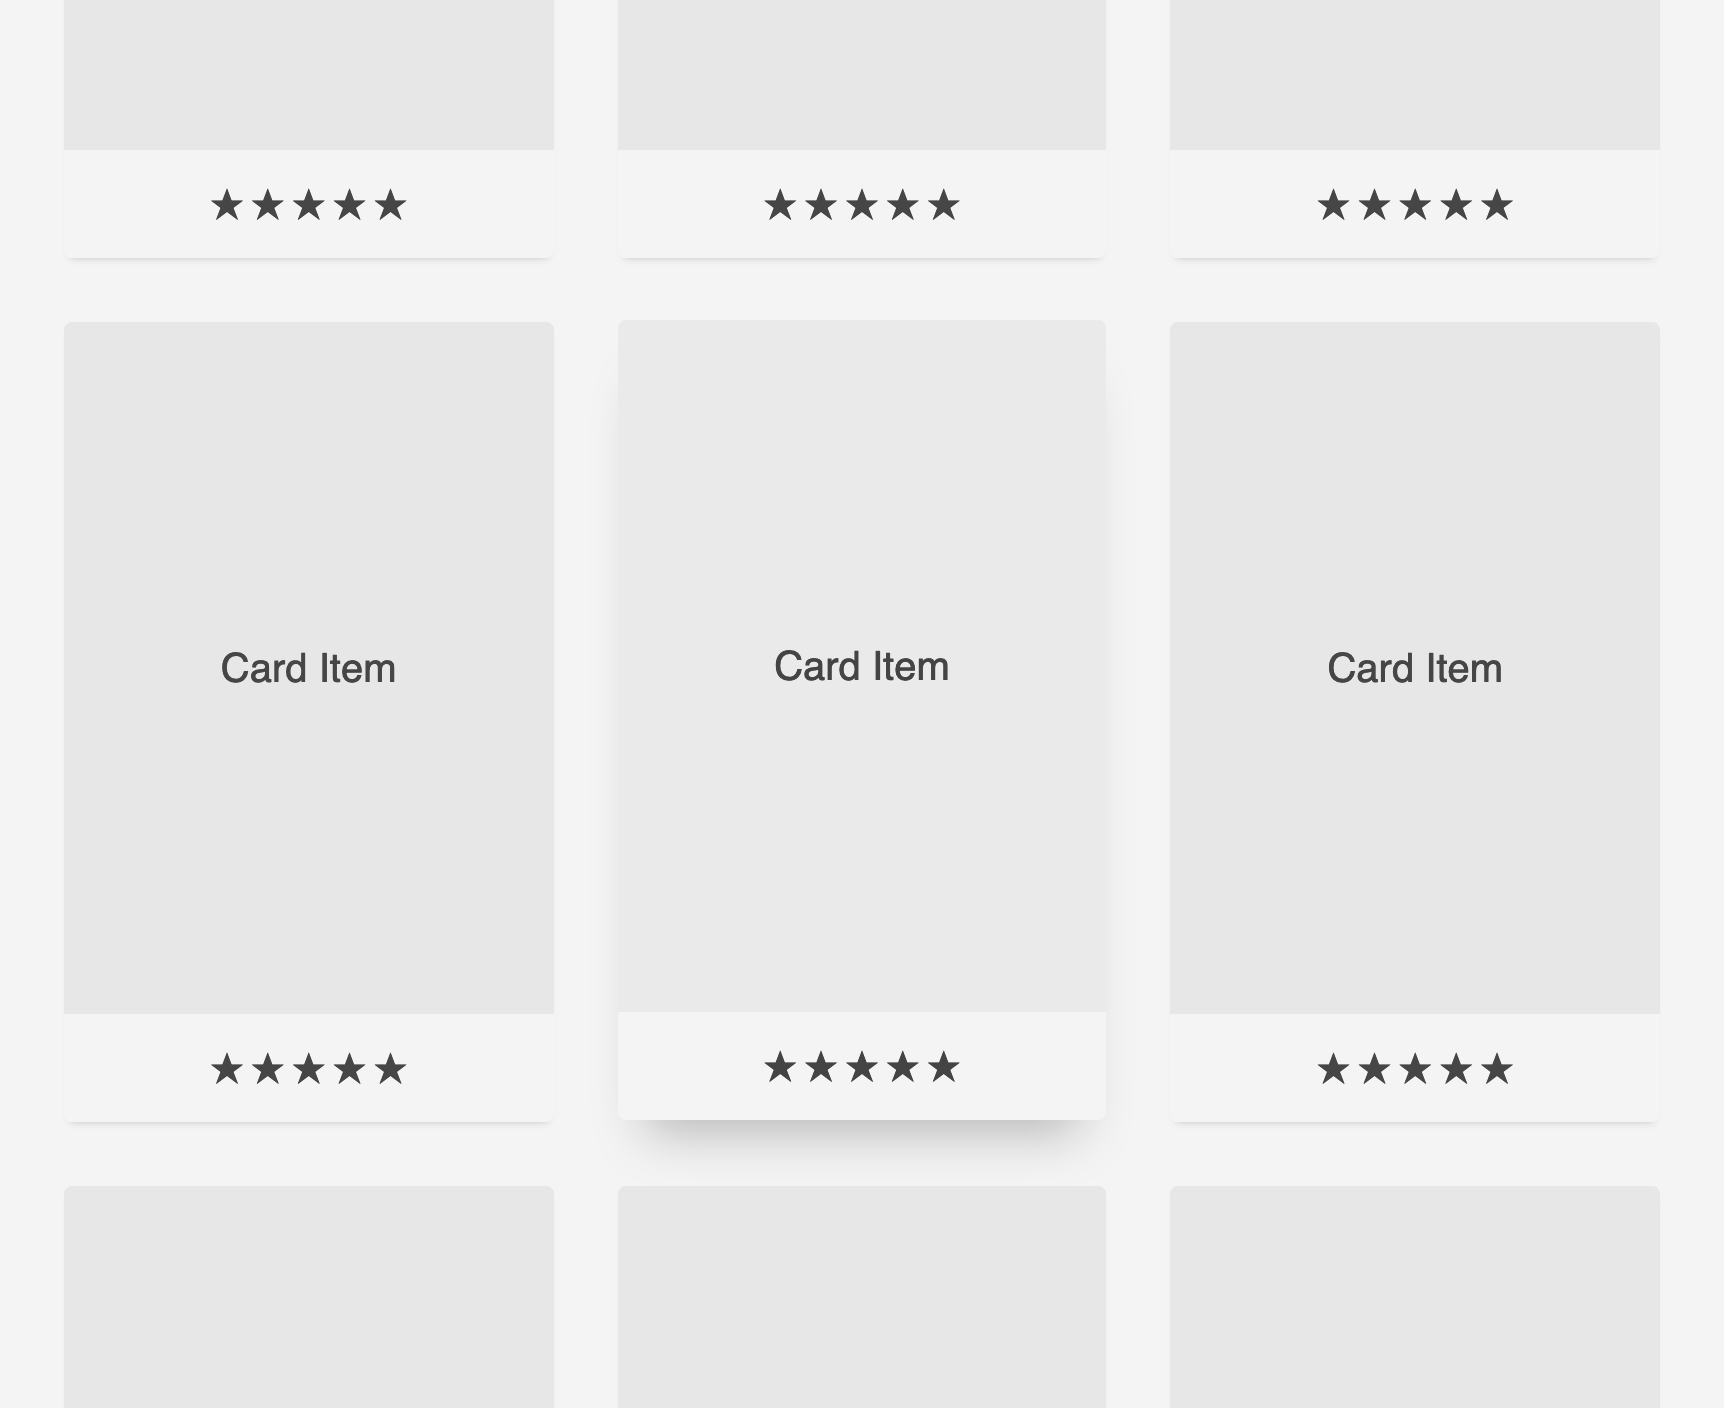
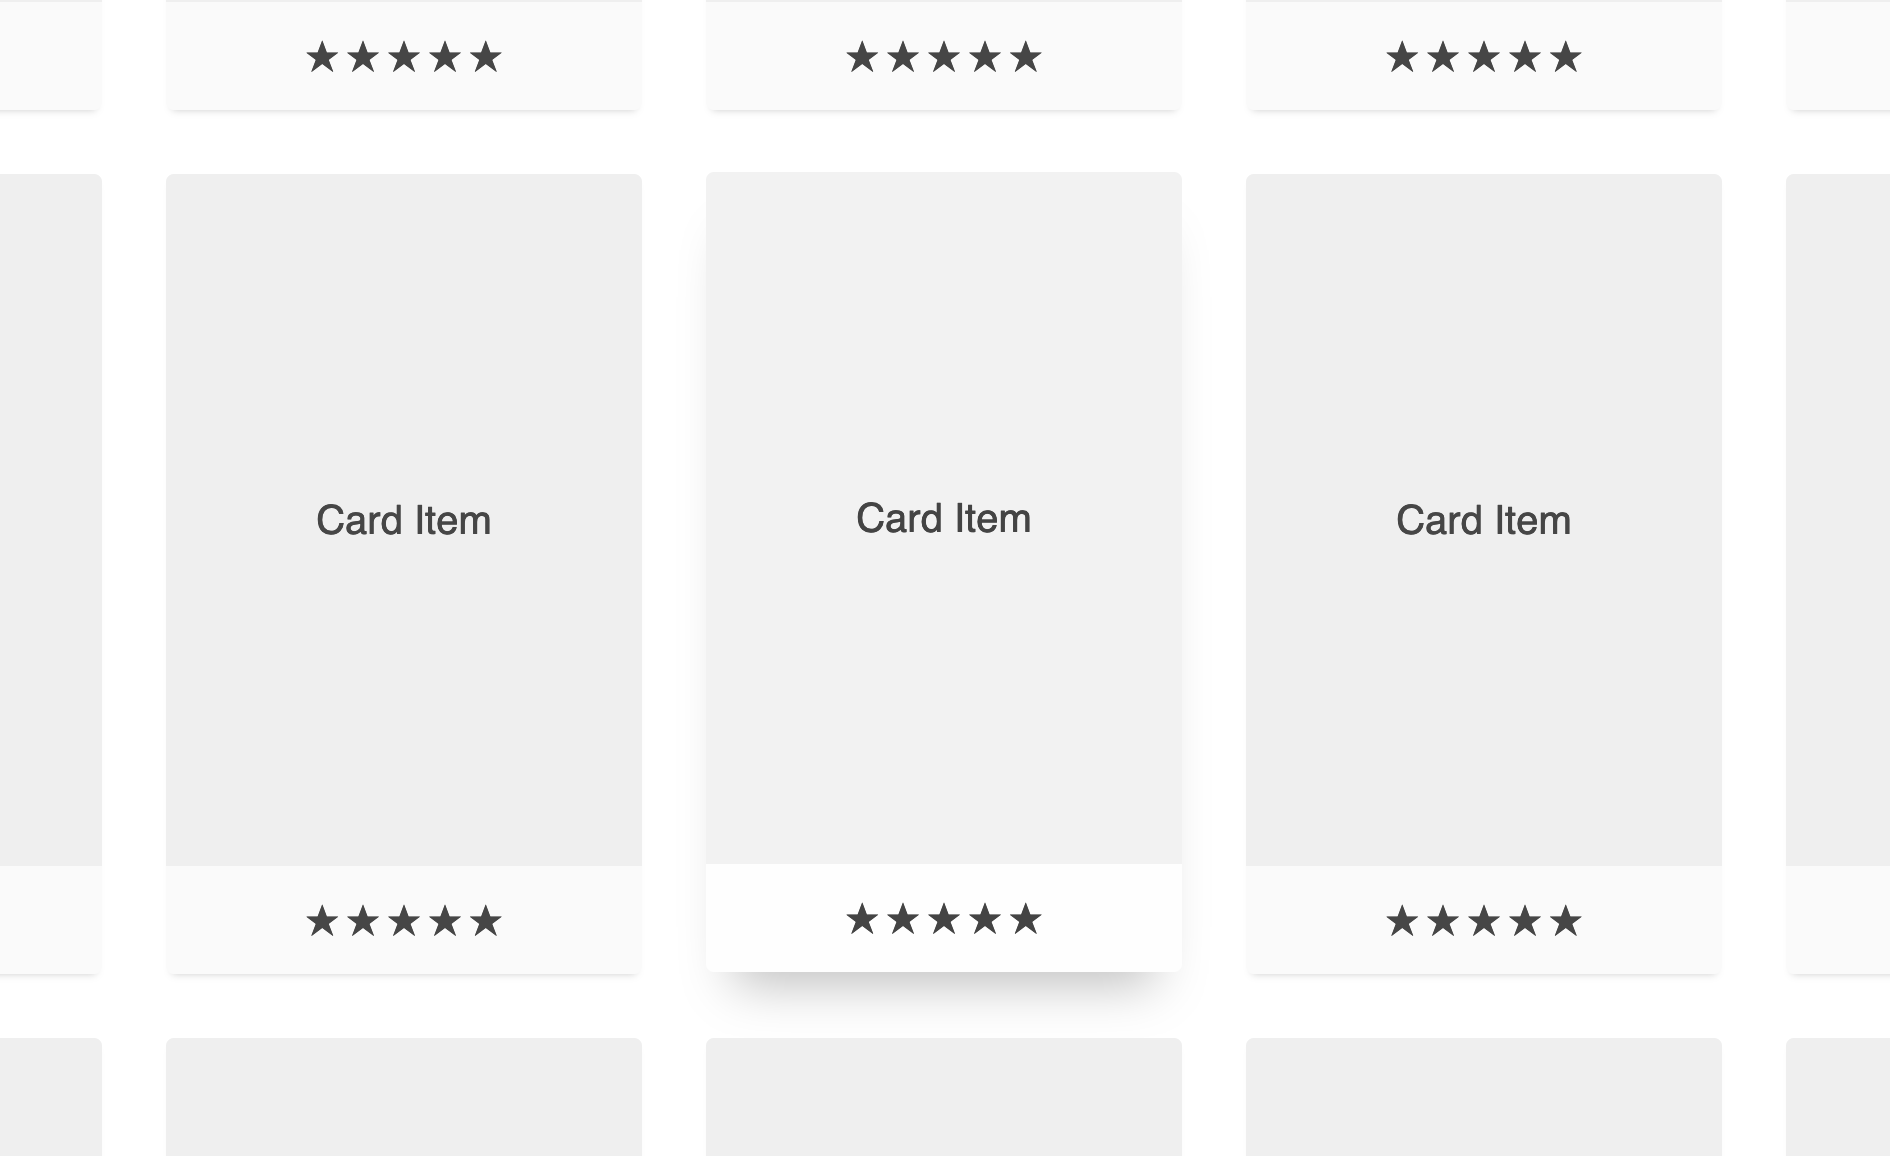
Tweak demo

diff --git a/demo/index.html b/demo/index.html
@@ -2,7 +2,6 @@
 <style>
   body {
     margin: 0;
-    background: #f4f4f4;
     color: #444;
     font-family: sans-serif;
   }
@@ -11,6 +10,7 @@
     flex-direction: column;
     min-height: 400px;
     text-align: center;
+    background: #fefefe;
   }
   card-item h1 {
     flex-grow: 1;
@@ -18,7 +18,7 @@
     align-items: center;
     justify-content: center;
     margin: 0;
-    background: #eaeaea;
+    background: #f2f2f2;
     font-weight: normal;
     font-size: 1.25em;
   }
